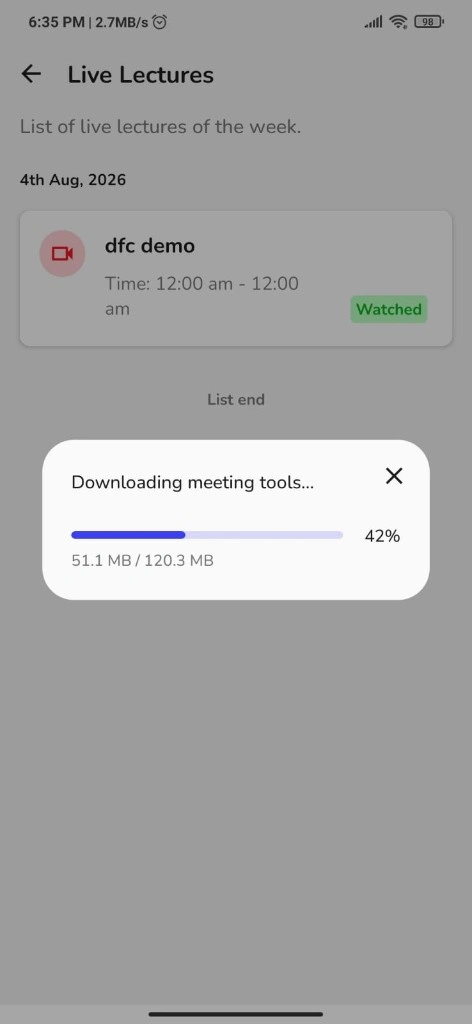
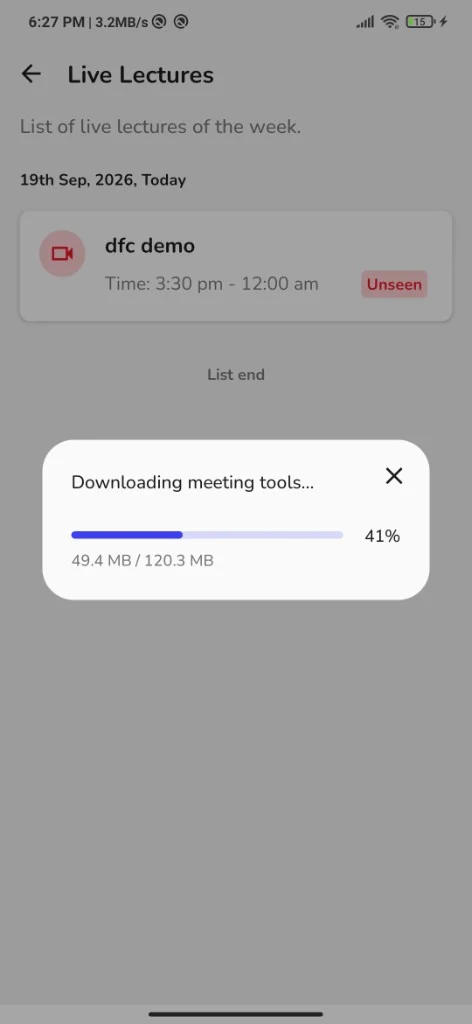
chore: add DFC and AptiBooster screenshots and OG brand alignment

diff --git a/lib/og.tsx b/lib/og.tsx
@@ -20,6 +20,32 @@ const colors = {
   surface: "#ffffff",
 };
 
+/** Matches `public/brand-mark.svg` / header `BrandMark` (32×32, rx 8). */
+const brandMarkSize = 56;
+const brandMarkRadius = (8 / 32) * brandMarkSize;
+
+function OgBrandMark() {
+  return (
+    <div
+      style={{
+        display: "flex",
+        height: brandMarkSize,
+        width: brandMarkSize,
+        alignItems: "center",
+        justifyContent: "center",
+        borderRadius: brandMarkRadius,
+        backgroundColor: colors.foreground,
+        color: colors.background,
+        fontSize: 24,
+        fontFamily: "Georgia, serif",
+        letterSpacing: "-0.02em",
+      }}
+    >
+      RD
+    </div>
+  );
+}
+
 export function createOpenGraphImage({
   kicker,
   title,
@@ -44,23 +70,7 @@ export function createOpenGraphImage({
         }}
       >
         <div style={{ display: "flex", alignItems: "center", gap: 20 }}>
-          <div
-            style={{
-              display: "flex",
-              height: 56,
-              width: 56,
-              alignItems: "center",
-              justifyContent: "center",
-              border: `1px solid ${colors.border}`,
-              borderRadius: 12,
-              backgroundColor: colors.surface,
-              fontSize: 18,
-              fontWeight: 600,
-              letterSpacing: "-0.04em",
-            }}
-          >
-            RD
-          </div>
+          <OgBrandMark />
           <div style={{ display: "flex", fontSize: 28, fontWeight: 600 }}>
             {site.name}
           </div>
@@ -70,9 +80,10 @@ export function createOpenGraphImage({
           <div
             style={{
               display: "flex",
-              fontSize: 20,
+              fontSize: 18,
               fontWeight: 500,
-              letterSpacing: "0.16em",
+              fontFamily: "ui-monospace, monospace",
+              letterSpacing: "0.18em",
               textTransform: "uppercase",
               color: colors.muted,
             }}
@@ -116,6 +127,9 @@ export function createOpenGraphImage({
 }
 
 export function createAppleIcon() {
+  const size = appleIconSize.width;
+  const radius = (8 / 32) * size;
+
   return new ImageResponse(
     (
       <div
@@ -126,10 +140,11 @@ export function createAppleIcon() {
           alignItems: "center",
           justifyContent: "center",
           backgroundColor: colors.foreground,
+          borderRadius: radius,
           color: colors.background,
-          fontSize: 72,
-          fontWeight: 600,
-          letterSpacing: "-0.06em",
+          fontSize: 78,
+          fontFamily: "Georgia, serif",
+          letterSpacing: "-0.02em",
         }}
       >
         RD

diff --git a/content/site.ts b/content/site.ts
@@ -7,7 +7,7 @@ export const site: Site = {
   titleTemplate: "%s · Ravi Dubey",
   defaultTitle: "Ravi Dubey · Software Engineer",
   description:
-    "Software Engineer specializing in web and mobile experiences. Production React and React Native work, including DFC and AptiBooster.",
+    "Software Engineer specializing in Web & Mobile Experiences. Production React and React Native ownership on DFC and AptiBooster.",
   locale: "en_IN",
   navigation: [
     {

diff --git a/public/screenshots/README.md b/public/screenshots/README.md
@@ -9,8 +9,16 @@ Capture at **device resolution** (1080×2340 or larger), then export WebP around
 | File | Screen |
 | --- | --- |
 | `student-onboarding.webp` | Welcome / OTP login (empty phone field — no number shown) |
-| `zoom-on-demand.webp` | Live lectures + on-demand Zoom module download |
+| `zoom-on-demand.webp` | Live lectures + on-demand meeting tools download in progress (Unseen) |
+| `zoom-cancel-download.webp` | Cancel download confirmation while meeting tools are downloading |
+| `zoom-dfm-preparing.webp` | Preparing meeting tools after download |
+| `zoom-restart-after-download.webp` | Post-download restart prompt for meeting tools (Unseen) |
+| `zoom-returning-to-lecture.webp` | Returning to an in-progress lecture after download / restart |
+| `zoom-starting-lecture.webp` | Starting your lecture loading state |
+| `zoom-join-preview.webp` | Zoom join preview before entering the meeting |
 | `student-batches.webp` | Assigned batches list |
+
+**Capture notes (DFC live lectures):** Prefer an **Unseen** badge on the lecture card in marketing shots when you can. **Watched** often appears when re-testing after tools were already installed or the same lecture was completed earlier—it does not change the product story, but portfolio viewers may read it as “already consumed” without that context.
 
 ## AptiBooster → `public/screenshots/aptibooster/`
 
@@ -18,7 +26,8 @@ Capture at **device resolution** (1080×2340 or larger), then export WebP around
 | --- | --- |
 | `test-session.webp` | Live test (match-the-following question) |
 | `test-overview.webp` | Post-test overview grid |
-| `test-analysis.webp` | Full test analysis with charts / strength mapping |
+| `test-analysis-charts.webp` | Full test analysis — topic difficulty (pie) and strength mapping (bars) |
+| `test-analysis.webp` | Full test analysis — strength mapping (bars) and consistency index (line chart) |
 | `question-review.webp` | Question review with answer and explanation |
 
-Same paths power the static showcase, the gated 3D scene, and case-study pages.
+Home **Work** 3D panel uses `workShowcaseScreenshots` when set (DFC: four Zoom/onboarding shots). Case-study **Screenshots** sections use the full `screenshots` list on each project.
